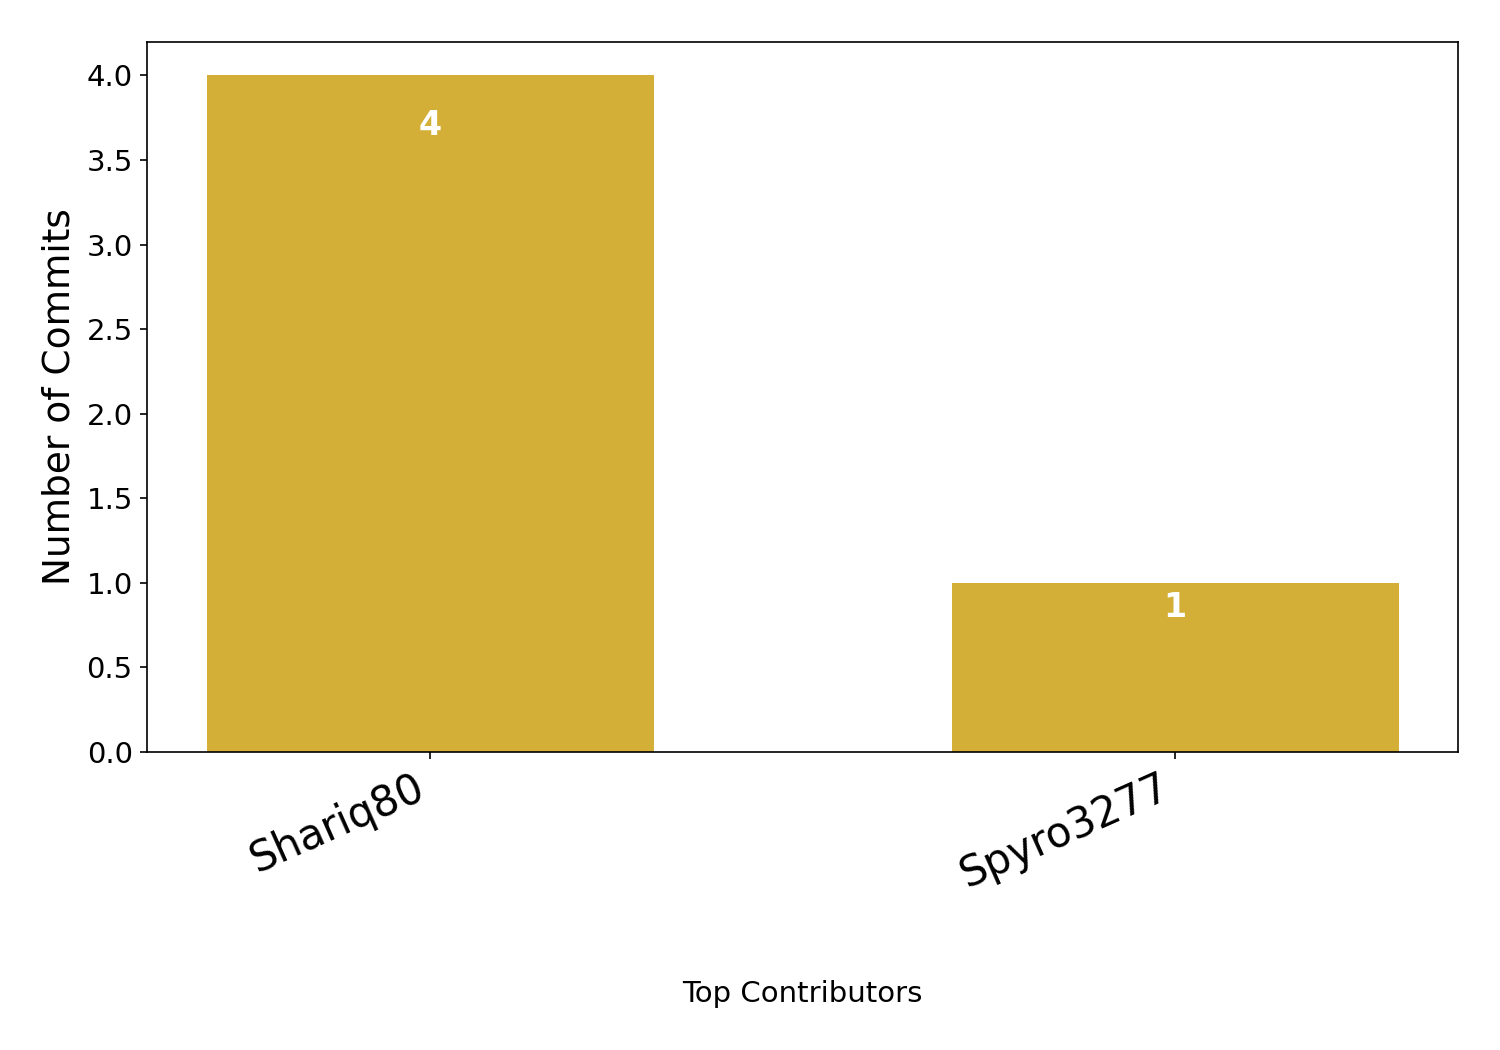
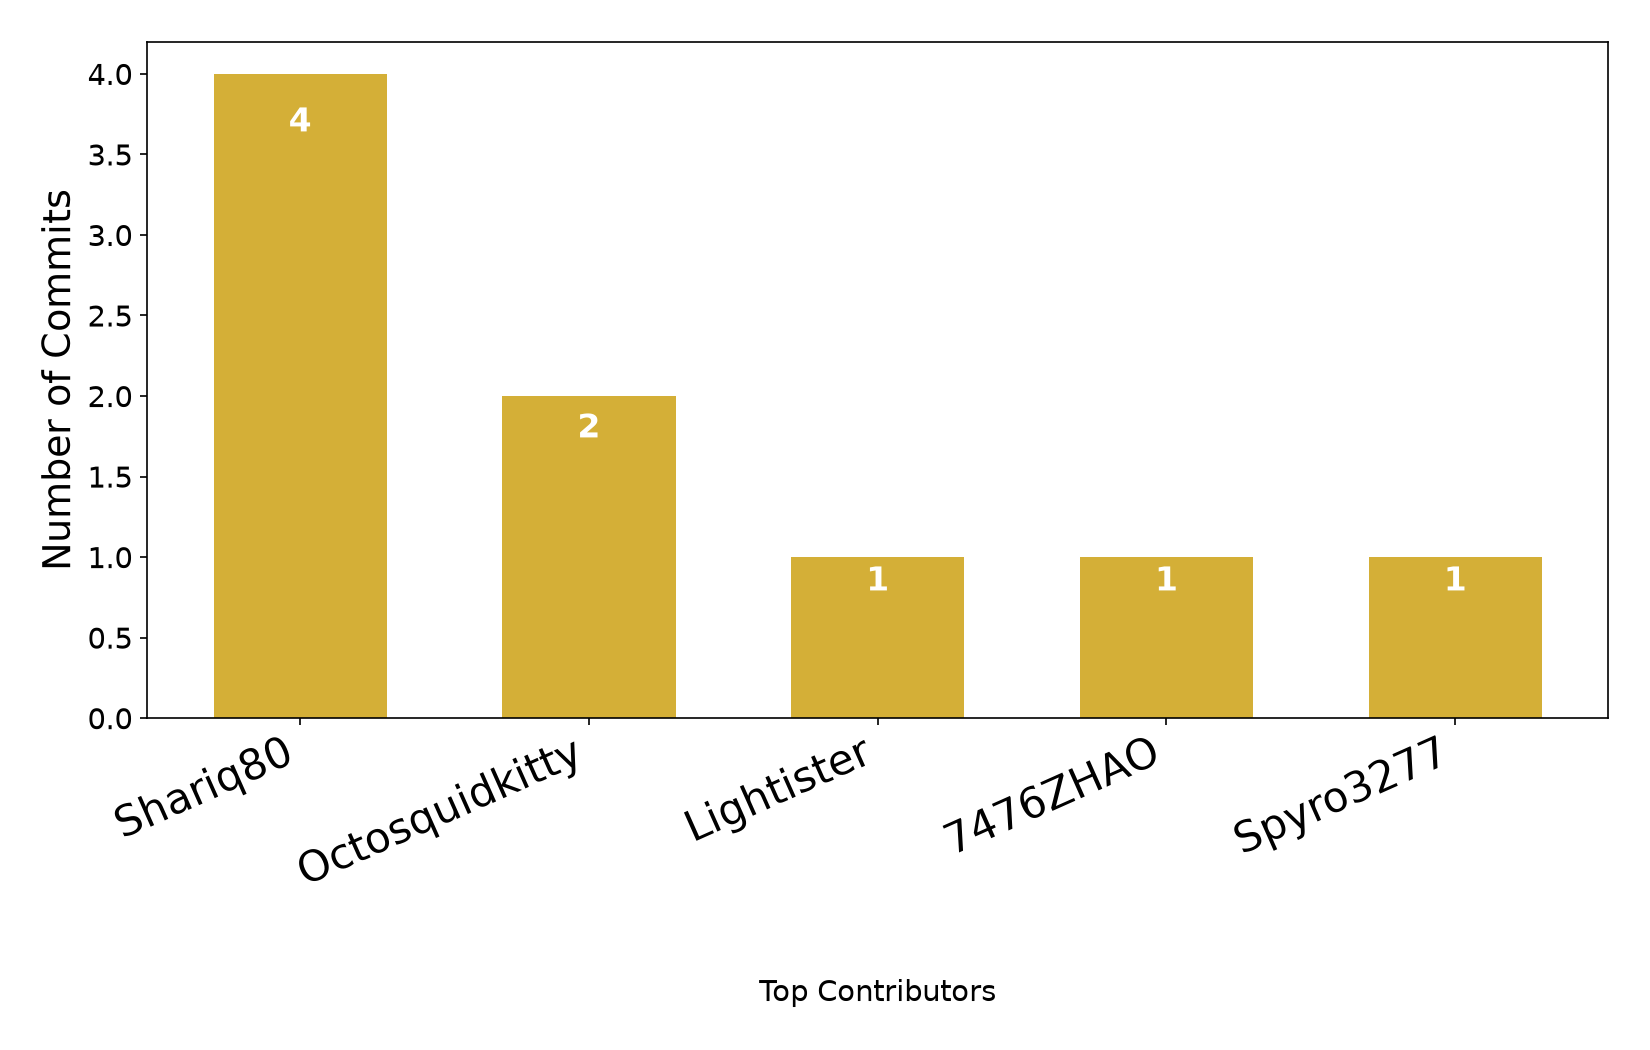
delete button outside rectangle(2nd deletion)

diff --git a/ReadBrain.qml b/ReadBrain.qml
@@ -680,63 +680,6 @@ Rectangle {
 
                 }
             }
-
-            // Headset selection row
-            Row {
-                width: parent.width
-                height: (parent.height - parent.spacing * 2) / 3
-                spacing: parent.width * 0.02
-
-                Rectangle {
-                    width: (parent.width - parent.spacing) / 2
-                    height: parent.height
-                    color: "#2d7a4a"
-                    radius: 5
-                    border.color: selectedHeadset === "OpenBCI" ? "yellow" : "#4a9d6f"
-                    border.width: selectedHeadset === "OpenBCI" ? 3 : 1
-
-                    Text {
-                        text: "OpenBCI"
-                        font.pixelSize: parent.height * 0.3
-                        font.bold: true
-                        color: selectedHeadset === "OpenBCI" ? "yellow" : "white"
-                        anchors.centerIn: parent
-                    }
-
-                    MouseArea {
-                        anchors.fill: parent
-                        onClicked: {
-                            selectedHeadset = "OpenBCI"
-                            backend.setBCISource("openbci")
-                        }
-                    }
-                }
-
-                Rectangle {
-                    width: (parent.width - parent.spacing) / 2
-                    height: parent.height
-                    color: "#2d7a4a"
-                    radius: 5
-                    border.color: selectedHeadset === "Neurosity" ? "yellow" : "#4a9d6f"
-                    border.width: selectedHeadset === "Neurosity" ? 3 : 1
-
-                    Text {
-                        text: "Neurosity"
-                        font.pixelSize: parent.height * 0.3
-                        font.bold: true
-                        color: selectedHeadset === "Neurosity" ? "yellow" : "white"
-                        anchors.centerIn: parent
-                    }
-
-                    MouseArea {
-                        anchors.fill: parent
-                        onClicked: {
-                            selectedHeadset = "Neurosity"
-                            backend.setBCISource("neurosity")
-                        }
-                    }
-                }
-            }
         }
     }
 
